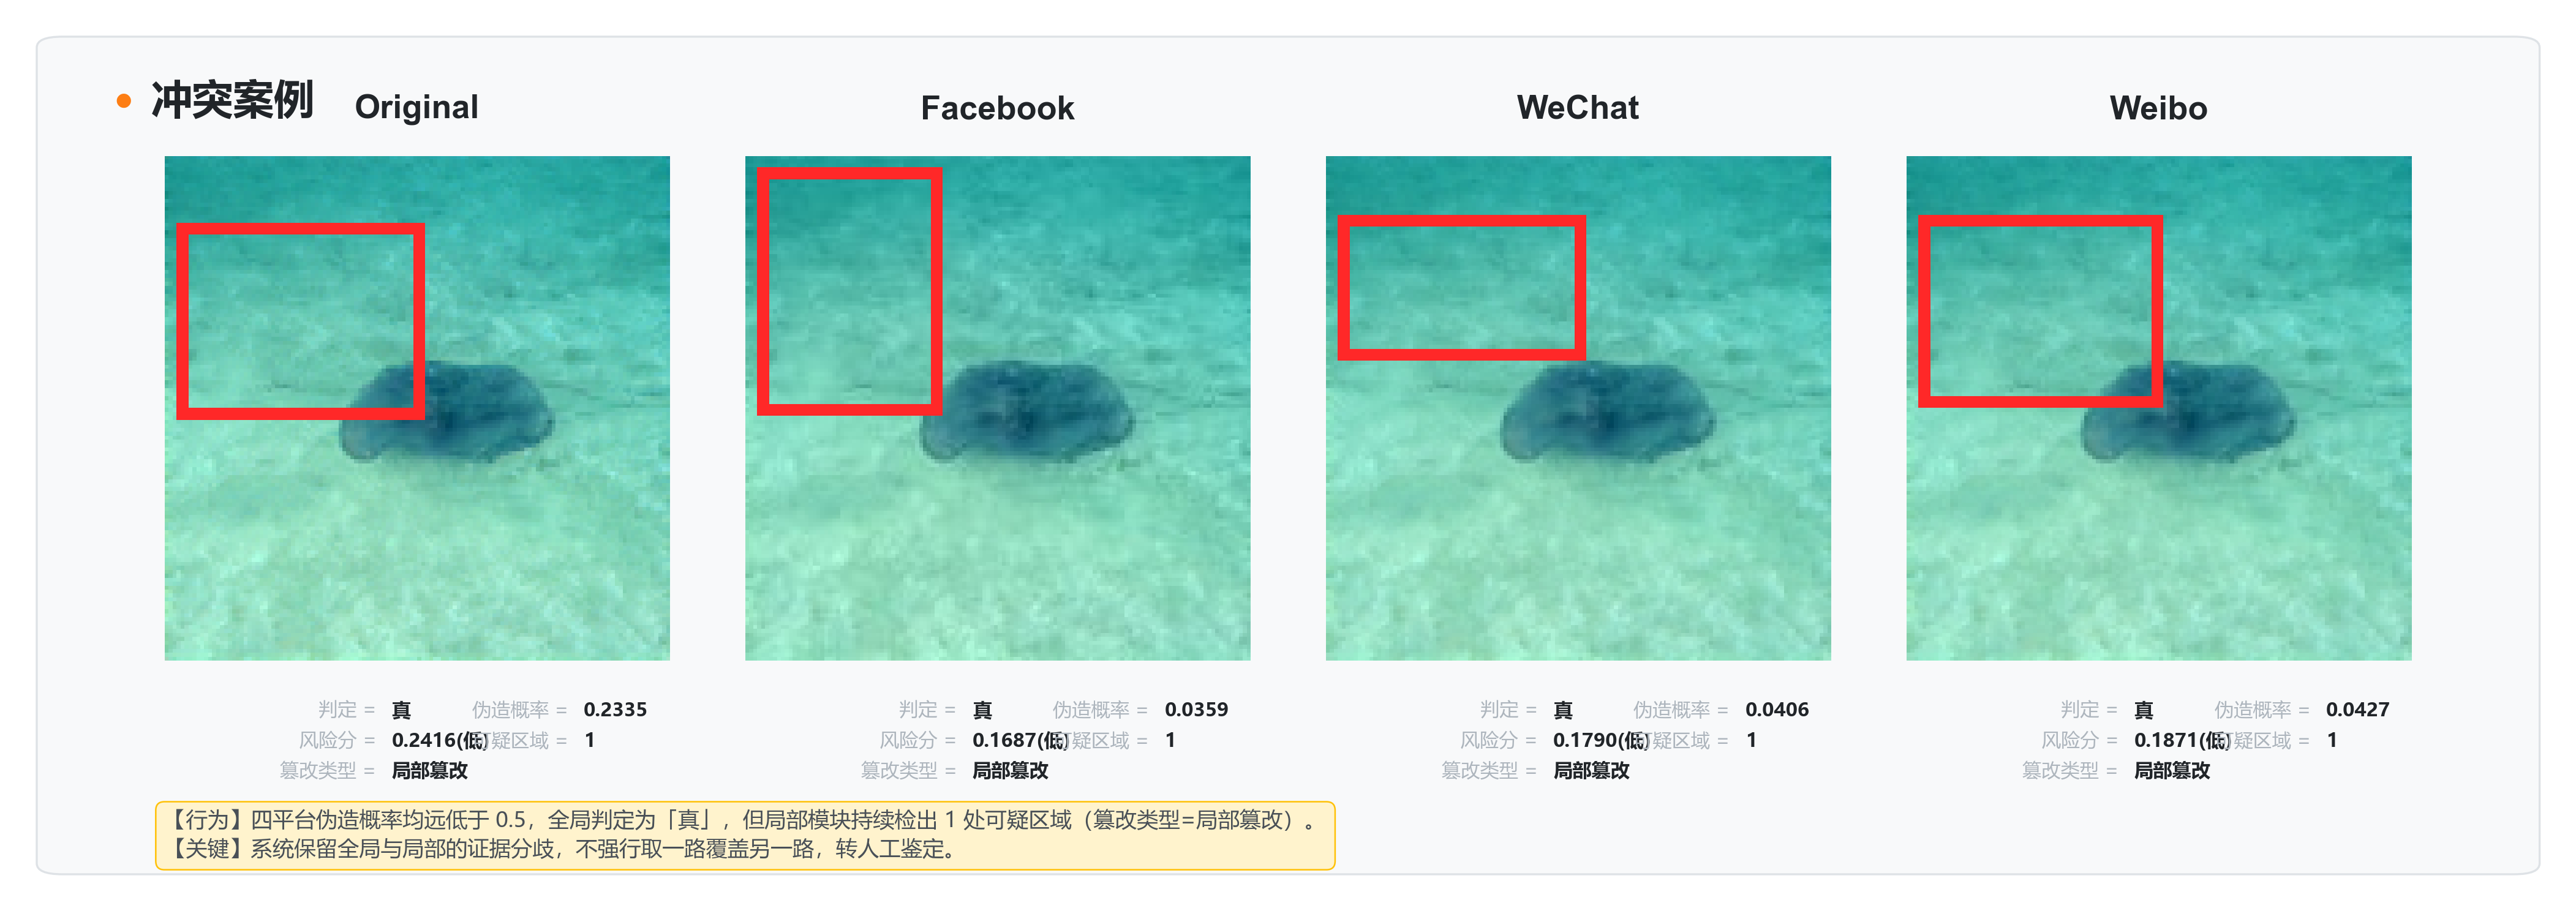
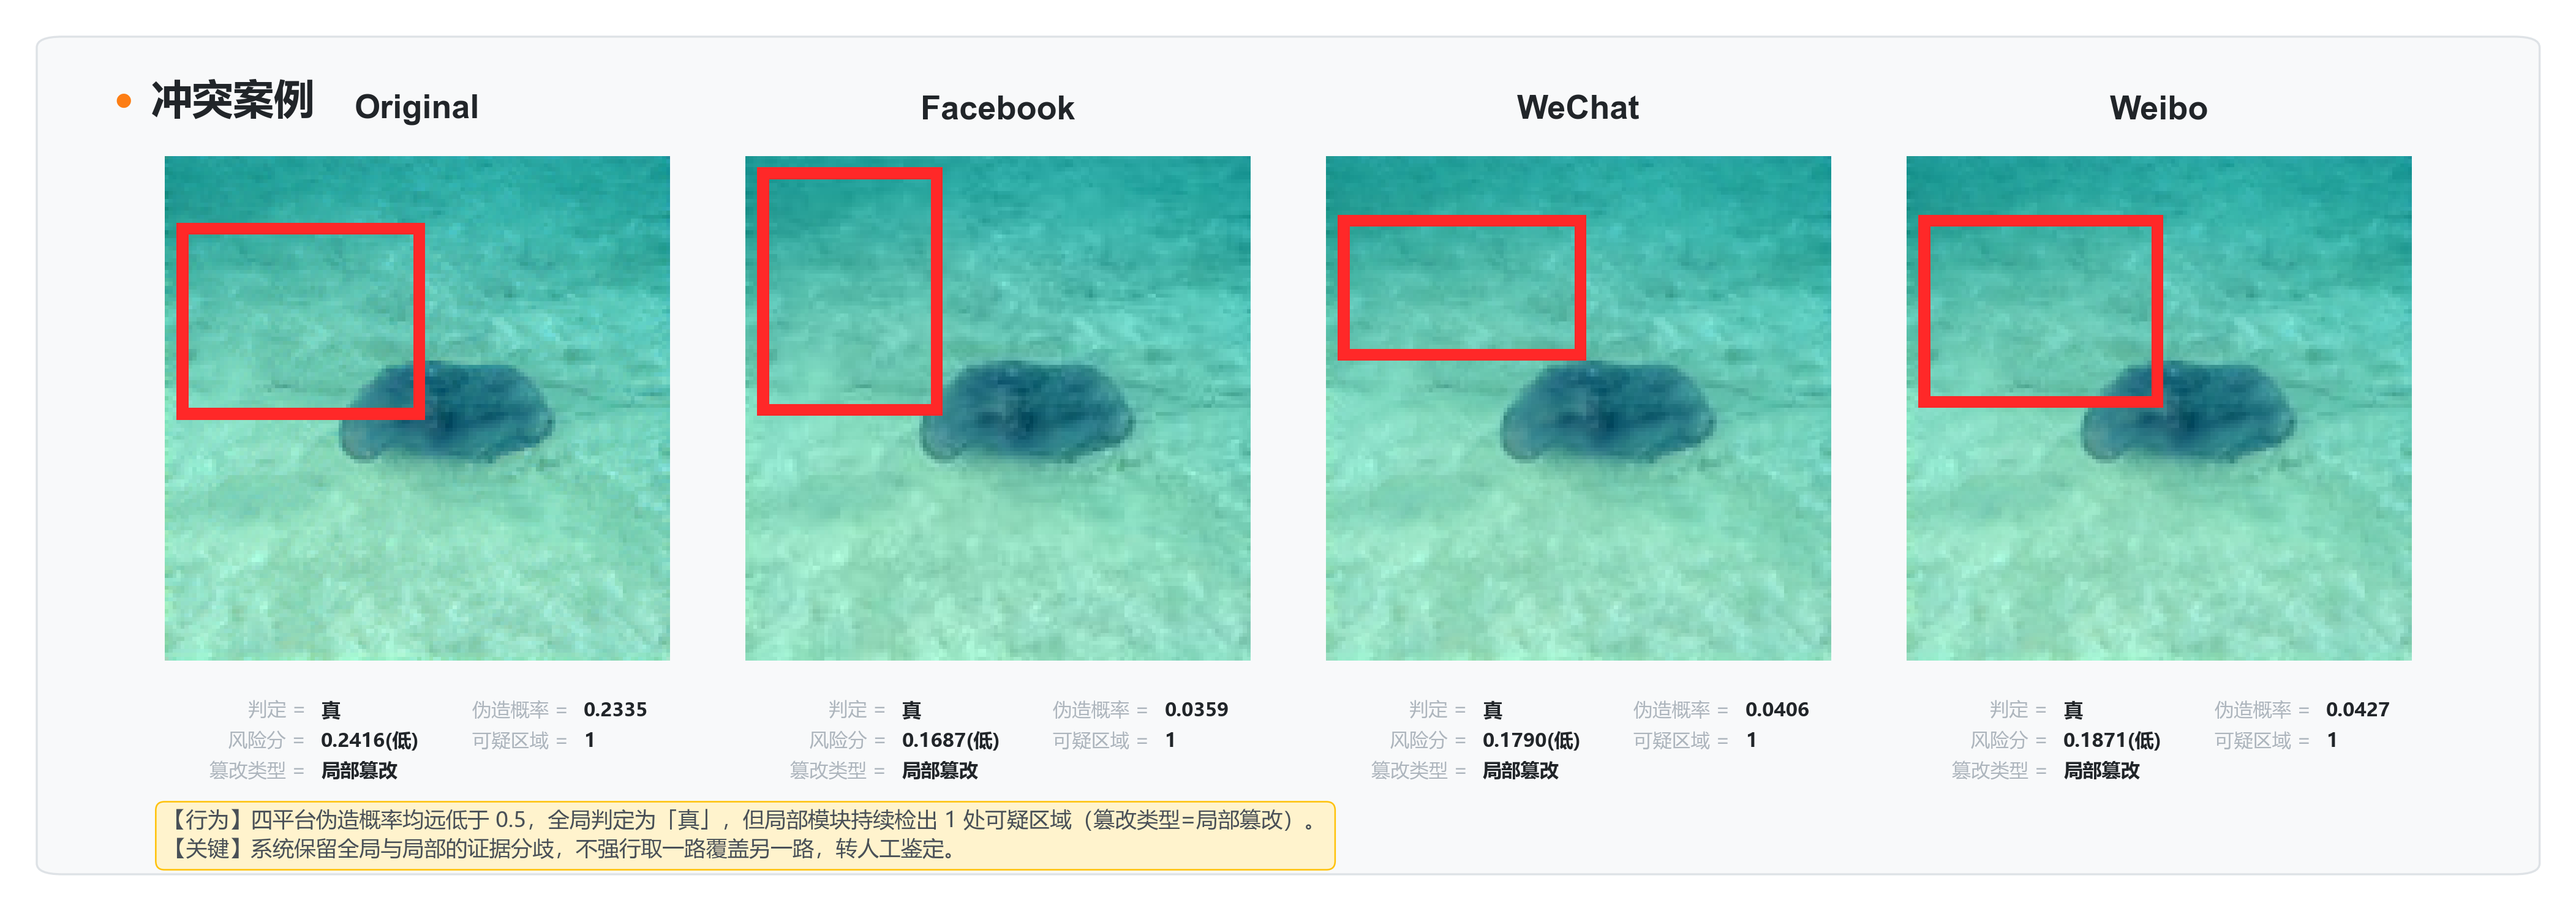
数据标签左移至0.28/0.31，排版更舒展

diff --git a/experiments/socialmedia/plot_case_evidence.py b/experiments/socialmedia/plot_case_evidence.py
@@ -252,9 +252,9 @@ def generate_case_figure(rows, output_base, variants=None, roles=None):
             y_space = 0.06
             for li, (lbl1, val1, lbl2, val2) in enumerate(ann_lines):
                 cur_y = start_y - li * y_space
-                ax.text(0.42, cur_y, f"{lbl1} =", fontsize=7.5, color="#ADB5BD",
+                ax.text(0.28, cur_y, f"{lbl1} =", fontsize=7.5, color="#ADB5BD",
                         ha="right", va="center", transform=ax.transAxes, zorder=3)
-                ax.text(0.45, cur_y, val1, fontsize=7.5, fontweight="bold",
+                ax.text(0.31, cur_y, val1, fontsize=7.5, fontweight="bold",
                         color="#212529", ha="left", va="center", transform=ax.transAxes, zorder=3)
                 if lbl2 is not None:
                     ax.text(0.80, cur_y, f"{lbl2} =", fontsize=7.5, color="#ADB5BD",